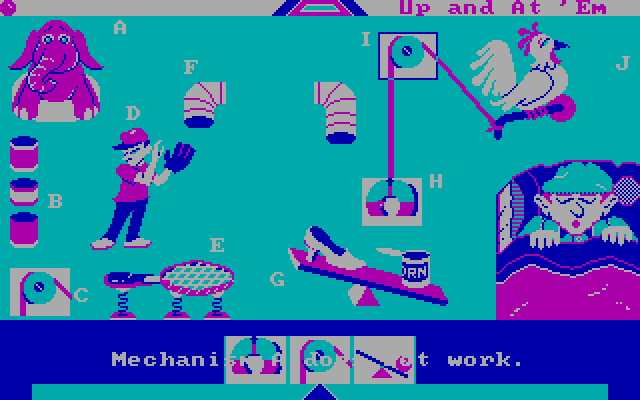
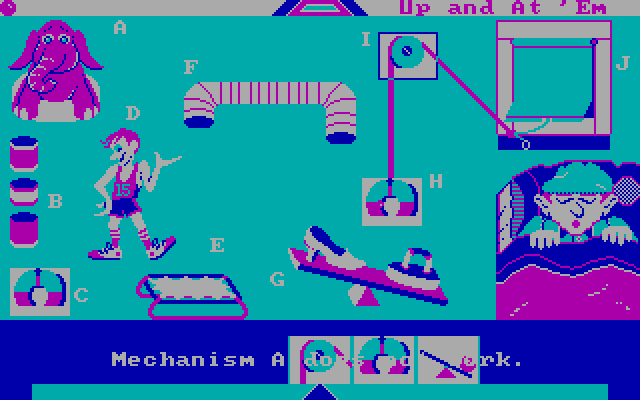
Rentetan enam ronde Mix Up: 384.000/384.000 -- dan bug KETIGA
Contraption Mix Up bukan satu layar melainkan enam kontraption berurutan
(sub++), dan hanya ronde pertama yang pernah diadu. Sekarang keenamnya.

Tiga koreksi harness untuk menjangkaunya, semuanya bukan emulator:
- hook_58c9 menghentikan emulasi tepat sesudah animasi ronde pertama; kini
  patuh CC_NOSTOP=1;
- urutan tombol OBSERVE bawaan diakhiri ESC, dan ESC MEMBATALKAN ronde --
  mode 4 dimasuki ulang, `sub` selalu kembali ke 1. Yang benar dari
  pickloop() @0x2E90: SPACE di dalam review() mengembalikan `cur | 0x8000`
  (NEGATIF, itu yang keluar dari gelung), lalu SPACE kedua dibaca clrbot();
- tanpa CC_NOWAIT animasi ronde pertama tak pernah selesai.

BUG: setmark() mengembalikan DUA daftar tanda; port memakai yang zany dan
membuang yang mekanisme. fillans.c baris 46:
    if (lvl3 == 3 && markf[i] != 0) tt[i] = b[rnd(nmech) * 0xc];
Di Mix Up slot mekanisme BERTANDA mendapat id ACAK, bukan jawaban benar.
Ronde 4 dan 6 meleset 369 dan 606 piksel.

⚠ Rantai undiannya COCOK 16/16 sejak awal -- yang salah pemakaiannya, bukan
undiannya. Alat baru CC_RNDLOG mencatat tiap rnd() berikut alamat
pemanggilnya (format yang sudah lama ditunggu pick.uji_log tapi belum pernah
ada penghasilnya); ia menunjuk tepat ke rnd(13) dari 0x14FC di fillans.

⚠ Perbaikannya butuh DUA hal sekaligus: memodelkan undian mkpal di dalam
fillans, DAN memakai direktori PENUH sebagai base di mode 4. Memodelkan yang
pertama saja justru MEMPERBURUK angkanya.
[…]

diff --git a/work/test_play.py b/work/test_play.py
@@ -170,6 +170,72 @@ def uji_mode(folder, nama, obs, mode, off, isi, isiz, ada_strip, arc, goal=GOAL)
     cek("SELURUH LAYAR", 64000 - beda, 64000)
 
 
+# Urutan tombol yang benar-benar MENYELESAIKAN satu ronde Mix Up.
+# `pickloop()` @0x2E90: ENTER memajukan slot tanpa mengubah pilihan, SPACE di
+# dalam `review()` mengembalikan `cur | 0x8000` -- nilai NEGATIF, jadi ia yang
+# keluar dari gelung -- lalu SPACE kedua dibaca `clrbot()` (case 0x20 -> jalan).
+# ⚠ ESC (0x1b) MEMBATALKAN ronde; urutan OBSERVE bawaan diakhiri ESC, dan
+# itulah sebabnya `sub` @0x3b2 dulu tak pernah lewat dari 1: tiap ronde
+# dibatalkan, mode 4 dimasuki lagi, `sub = 0` lalu `sub++`.
+# ⚠ Panah TIDAK dipakai: mengubah pilihan berarti part benar-benar DITARUH,
+# dan layar awal ronde berikutnya jadi tidak lagi keadaan awal.
+TOMBOL_RONDE = ",".join((["0d"] * 3 + ["20", "20"]) * 10)
+
+
+def uji_mixup_rentetan(folder, arc):
+    """KEENAM ronde Contraption Mix Up, bukan hanya yang pertama.
+
+    Mode 4 adalah RENTETAN: `main_.c` case 4 memasang `sub = 0; goal = 6;`
+    lalu `sub++` tiap putaran. Lima kontraption sesudah yang pertama dulu tak
+    pernah bisa diadu -- `hook_58c9` menghentikan emulasi tepat sesudah
+    animasi ronde pertama. `CC_NOSTOP=1` kini membiarkannya jalan terus.
+
+    Dua lari (emulatornya deterministik): satu membaca keadaan RNG di tiap
+    `loadcon()`, satu menangkap layarnya. Dipasangkan lewat `sub` yang
+    dicatat KEDUANYA -- bukan lewat urutan, karena `drawpal()` bisa terpanggil
+    lebih dari sekali per ronde.
+    """
+    g, m, mi, an, cs = arc
+    env = dict(CC_NOSTOP="1", CC_NOWAIT="1", CC_OBSKEYS=TOMBOL_RONDE)
+    seqS = _emu(folder, "mixup_rentetan", "mixup", 4, dict(
+        env, CC_VRAMSEQ="3c4e=%s:8" % os.path.join(folder, "mixup_rentetan"),
+        CC_VSWORD="3ac,51c,738,718,7ee,3b2,730,732",
+        CC_VSMEM="2ea:20", CC_VSPTR="73a:480"))
+    seqL = _emu(folder, "mixup_ronde_rng", "mixup", 4, dict(
+        env, CC_VRAMSEQ="5035=%s:12" % os.path.join(folder, "mixup_ronde_rng"),
+        CC_VSWORD="71a,3b2,1e2e,1e30,718"))
+    S = json.load(open(os.path.join(seqS, "globals.json")))
+    L = json.load(open(os.path.join(seqL, "globals.json")))
+    uniq = []
+    for r in S:                       # drawpal bisa >1x per ronde: ambil yang pertama
+        if not uniq or uniq[-1]["w3b2"] != r["w3b2"]:
+            uniq.append(r)
+    per_off = {r["off"]: r for r in m.recs}
+    for i, r0 in enumerate(uniq[:6]):
+        lc = L[i + 1]
+        sub = r0["w3b2"]
+        if lc["w3b2"] != sub:         # penjajaran DIPERIKSA, bukan diasumsikan
+            gagal.append("ronde %d: sub loadcon %d != layar %d"
+                         % (i, lc["w3b2"], sub))
+            continue
+        skor = r0["w730"] | (r0["w732"] << 16)
+        ref = muat(os.path.join(seqS, "f%04d.png" % r0["frame"]))
+        var, _p, fb, _pil = adegan.susun_lengkap(
+            sub, g, m, mi, an, cs, seed=lc["w71a"], mode=4, sub=sub,
+            isi=True, isi_zany=True, nbola=r0["w718"],
+            lastgoal=lc["w1e2e"], lastvar=lc["w1e30"], lvl=1)
+        k = rend.KanvasFB(fb)
+        idtab = bytes.fromhex(r0["mem2"])
+        base = (base_gim(bytes.fromhex(r0["mem"]), m)
+                if r0["w738"] == 1 else m.recs)
+        palet.drawpal(k, r0["w51c"], lambda j: (m, base[idtab[j]]), r0["w3ac"])
+        hud.timedrw(k, r0["w7ee"], 4, r0["w718"], sub)
+        hud.judul_atau_skor(k, 4, sub, skor)
+        beda = sum(1 for y in range(200) for x in range(320)
+                   if fb[y][x] != ref[y][x])
+        cek("Mix Up ronde sub=%d (skor %d)" % (sub, skor), 64000 - beda, 64000)
+
+
 def uji_interaktif(folder, arc):
     """Jalur PEMAIN SUNGGUHAN: main.Game + key(), bukan hanya modul inti.
 
@@ -227,9 +293,11 @@ def main(folder):
     for nama, obs, mode, off, isi, isiz, strip, goals in KASUS:
         for goal in goals:
             uji_mode(folder, nama, obs, mode, off, isi, isiz, strip, arc, goal)
+    print("  Contraption Mix Up: RENTETAN enam ronde")
+    uji_mixup_rentetan(folder, arc)
     print("  Fill in Mechanisms lewat JALUR PEMAIN")
     uji_interaktif(folder, arc)
-    print("\n%s" % ("LAYAR BERMAIN IDENTIK DENGAN GAME ASLI (6 goal x 2 mode + Mix Up)"
+    print("\n%s" % ("LAYAR BERMAIN IDENTIK DENGAN GAME ASLI (6 goal x 2 mode + 6 ronde Mix Up)"
                     if not gagal else "GAGAL: %s" % ", ".join(gagal)))
     return 1 if gagal else 0
 

diff --git a/work/emu.py b/work/emu.py
@@ -594,6 +594,41 @@ def hook_5035(uc, addr, size, user):
 # secara deterministik (bukan acak). VARIANT<0 = biarkan acak (perilaku asli).
 VARIANT = int(os.environ.get("VARIANT", "-1"))
 VTAG = "" if VARIANT < 0 else "_v%d" % VARIANT   # suffix output per-varian
+# CC_RNDLOG=<berkas> -- catat SETIAP panggilan `rnd()` @0x5A5B:
+#   "<seed sebelum heks> <n> <hasil> <alamat balik heks>"
+#
+# Format tiga kolom pertamanya persis yang ditunggu `pick.uji_log()`. Ada
+# karena "rantai RNG-nya benar" adalah klaim yang selama ini hanya bisa diuji
+# LEWAT PIKSEL: kalau satu slot meleset, tidak ada cara melihat undian KE
+# BERAPA yang berbeda. Ini melihatnya.
+#
+# Hasilnya dihitung ulang di sini, bukan dibaca dari AX, karena hook menyala
+# saat MASUK: `snd1.asm` melakukan seed = seed*0x3E85 + 0x3619 lalu
+# hasil = kata TINGGI dari n * seed_baru. `n` ada di [BX+2].
+_RNDLOG = os.environ.get("CC_RNDLOG")
+_rndlog_f = [None]
+
+
+def hook_rndlog(uc, addr, size, user):
+    if not _RNDLOG:
+        return
+    if _rndlog_f[0] is None:
+        _rndlog_f[0] = open(_RNDLOG, "w")
+    seed = struct.unpack_from(
+        "<H", bytes(uc.mem_read(DGROUP * 16 + 0x71a, 2)), 0)[0]
+    # ⚠ `n` dibaca lewat SP, BUKAN BX: `rnd:` @0x5A5B dibuka `MOV BX, SP`,
+    # jadi saat hook menyala BX belum berisi apa-apa. [SP] = alamat balik,
+    # [SP+2] = argumen.
+    _ss = uc.reg_read(UC_X86_REG_SS); _sp = uc.reg_read(UC_X86_REG_SP)
+    n = struct.unpack_from("<H", bytes(uc.mem_read(_ss * 16 + _sp + 2, 2)), 0)[0]
+    baru = (seed * 0x3E85 + 0x3619) & 0xFFFF
+    hasil = (n * baru) >> 16
+    ssg = uc.reg_read(UC_X86_REG_SS); spx = uc.reg_read(UC_X86_REG_SP)
+    reta = struct.unpack_from("<H", bytes(uc.mem_read(ssg * 16 + spx, 2)), 0)[0]
+    _rndlog_f[0].write("%04x %d %d %04x" % (seed, n, hasil, reta) + chr(10))
+    _rndlog_f[0].flush()
+
+
 def hook_5a5b(uc, addr, size, user):
     if VARIANT < 0:
         return
@@ -1176,7 +1211,14 @@ def hook_18db_entry(uc, addr, size, user):  # mulai capture pada 18db pertama
 
 def hook_58c9(uc, addr, size, user):        # dipanggil tepat setelah 18db play -> selesai
     if started[0]:
-        # dump & stop
+        # ⚠ Berhenti di sini berarti HANYA RONDE PERTAMA yang pernah terlihat.
+        # Itu tidak terasa di mode 2/3 (satu kontraption per pilihan goal),
+        # tapi Contraption Mix Up adalah RENTETAN enam ronde -- `main_.c`
+        # case 4 memasang `sub = 0; goal = 6;` lalu `sub++` tiap putaran.
+        # Dengan berhenti di ronde pertama, lima kontraption sisanya tak
+        # pernah bisa diadu. `CC_NOSTOP=1` membiarkannya jalan terus.
+        if NOSTOP:
+            return
         _dump_and_stop()
 
 def _dump_and_stop():
@@ -1369,7 +1411,8 @@ def hook_seed(uc, addr, size, user):
 
 _seed_done = [False]
 
-hooks = [(0x5035, hook_seed), (0x5035, hook_5035), (0x5a5b, hook_5a5b), (0x1791, hook_input), (0x1814, hook_input),
+hooks = [(0x5035, hook_seed), (0x5035, hook_5035),
+         (0x5a5b, hook_rndlog), (0x5a5b, hook_5a5b), (0x1791, hook_input), (0x1814, hook_input),
          (0x672f, hook_672f), (0x26ae, hook_ball),
          (0x1b13, hook_mechmatch), (0x1bcd, hook_zanymatch),
          (0x341a, hook_menu_mode), (0x32bb, hook_menu_level),

diff --git a/port/cc/core/pick.py b/port/cc/core/pick.py
@@ -179,8 +179,26 @@ def mkpal(recs):
     return out
 
 
-def fillans(recs, jenis):
-    """`fillans()` @0x4b??: mekanisme TIDAK diundi. -> indeks record per slot.
+def fillans(recs, jenis, rng=None, mark=None, lvl3=1, base=None):
+    """`fillans()` @0x149D. -> indeks record per slot.
+
+    ⭐ "Mekanisme TIDAK diundi" hanya benar di mode 1/2/3. Di Contraption Mix
+    Up slot mekanisme yang BERTANDA justru mendapat id ACAK:
+
+        if (lvl3 == 3 && markf[i] != 0)  tt[i] = b[rnd(nmech) * 0xc];
+        else                             tt[i] = tq[i * 3 + 2];
+
+    dan `b` di situ `base` -- direktori record -- diindeks dgn `rnd(nmech)`,
+    yaitu cacah PALET, bukan cacah record. Ditiru apa adanya.
+
+    `setmark()` memang mengembalikan DUA daftar tanda; port dulu memakai yang
+    zany saja dan MEMBUANG yang mekanisme, jadi cabang ini tak pernah ada.
+    Terukur di Contraption Mix Up ronde 4 dan 6: satu petak slot meleset
+    (369 dan 606 piksel) sementara seluruh rantai undian justru COCOK 16/16 --
+    tanda bahwa yang salah pemakaiannya, bukan undiannya.
+
+    `mkpal()` dipanggil DI DALAM `fillans` dan ikut memakai RNG, jadi undian
+    `rnd(nmech)` di atas hanya benar kalau kocokan itu dimodelkan lebih dulu.
 
         for (j = 0; j < nmech; j++)
             if (b[tr[j] * 0xc] == tt[i]) { ans[i] = tr[j]; break; }
@@ -191,12 +209,22 @@ def fillans(recs, jenis):
     jenis 150 tidak akan pernah ketemu. Salah satu tempat di mana memakai
     ulang "fungsi yang mirip" akan diam-diam meleset.
     """
-    tr = mkpal(recs)
+    b = recs if base is None else base
+    if rng is None:
+        tr = mkpal(recs)                       # jalur lama, tanpa RNG
+        npal = len(tr)
+    else:
+        npal = len(palet_mekanisme(b, jenis, lvl3, rng))
+        tr = mkpal(recs)
     hasil = []
-    for t in jenis:
+    for i, t in enumerate(jenis):
+        cari = t
+        if (lvl3 == 3 and rng is not None and mark
+                and i < len(mark) and mark[i] and npal):
+            cari = b[rng.rnd(npal)]["id"]
         ketemu = None
         for j in tr:
-            if recs[j]["id"] == t:
+            if recs[j]["id"] == cari:
                 ketemu = j
                 break
         hasil.append(ketemu)

diff --git a/port/cc/core/adegan.py b/port/cc/core/adegan.py
@@ -305,10 +305,11 @@ def susun_lengkap(goal, graph, mechs, misc, animate, kontrap, seed=0, mode=0,
     # rantai RNG-nya; yang membuktikannya mode 4, di mana semuanya tampak.
     n_slot = len(var["zany"]) + len(var["mech"])
     mark_zany = None
+    mark_mech = None
     if mode == 3:
         _mk, mark_zany, _c, _z = pick.setzany(r, n_slot, var["state"])
     elif mode == 4:
-        _mk, mark_zany, _c = pick.setmark(r, n_slot, var["state"], lvl)
+        mark_mech, mark_zany, _c = pick.setmark(r, n_slot, var["state"], lvl)
     # `lvl2`: 2 di Mix Up, dan di mode isian 1 (Apprentice) / 2 (Master).
     lvl2 = 2 if mode == 4 else (1 if lvl == 1 else 2)
 
@@ -316,8 +317,16 @@ def susun_lengkap(goal, graph, mechs, misc, animate, kontrap, seed=0, mode=0,
     tz = pick.tabel(graph, jz)
     selz = pick.pickpart(r, tz, jz, sub=goal, mark=mark_zany, lvl2=lvl2)
     jm = [t for (y, x, t) in var["mech"]]
-    tm = pick.tabel(mechs, jm)
-    selm = pick.fillans(tm, jm)
+    # ⚠ `loadarc(mechfh, base, lvl3 == 1 ? 0 : 1, ...)`: di mode isian `base`
+    # adalah direktori yang DISARING + DIPADATKAN, di Contraption Mix Up
+    # direktori PENUH. Bedanya baru terasa sesudah slot mekanisme BERTANDA
+    # dimodelkan: id acaknya diambil dari `base`, dan kalau `base` tersaring
+    # id itu sering tidak ada di sana sama sekali.
+    tm = mechs.recs if mode == 4 else pick.tabel(mechs, jm)
+    # ⭐ Di Mix Up slot mekanisme BERTANDA mendapat id ACAK (fillans.c baris
+    # 46). Daftar tanda mekanisme dulu dibuang di sini -- lihat pick.fillans().
+    selm = (pick.fillans(tm, jm, rng=r, mark=mark_mech, lvl3=3, base=tm)
+            if mode == 4 else pick.fillans(tm, jm))
 
     # `sub` = nomor goal. Ia menentukan strip cyan di dasar layar:
     #     if (sub == 1 && mode != 0 && mode != 1)

diff --git a/CLAUDE.md b/CLAUDE.md
@@ -509,6 +509,43 @@ Ketiganya bukan "bug yang diketahui", melainkan bagian yang statusnya
    yang DIPOTONG 16 nada — alat ukur yang membatasi temuannya sendiri.
    Daftar frekuensi penuh kini ditulis ke `pit_hz.json`.
 
+### Celah keempat: RENTETAN enam ronde Contraption Mix Up (2026-08-02)
+
+Mode 4 bukan satu layar melainkan enam kontraption berurutan (`sub++`), dan
+hanya ronde PERTAMA yang pernah diadu. Menjangkau sisanya butuh tiga koreksi
+harness, semuanya bukan emulator:
+
+- `hook_58c9` menghentikan emulasi tepat sesudah animasi ronde pertama —
+  kini patuh `CC_NOSTOP=1`;
+- urutan tombol OBSERVE bawaan diakhiri **ESC**, dan ESC MEMBATALKAN ronde,
+  jadi mode 4 dimasuki ulang dan `sub` selalu kembali ke 1. Yang benar:
+  `pickloop()` @0x2E90 — SPACE di dalam `review()` mengembalikan
+  `cur | 0x8000` (nilai NEGATIF, itu yang keluar dari gelung), lalu SPACE
+  KEDUA dibaca `clrbot()` (case 0x20 → jalan). Panah tidak dipakai: mengubah
+  pilihan berarti part benar-benar DITARUH;
+- tanpa `CC_NOWAIT` animasi ronde pertama tak pernah selesai.
+
+⭐ **BUG KETIGA.** `setmark()` mengembalikan DUA daftar tanda; port memakai
+yang zany dan MEMBUANG yang mekanisme. Padahal `fillans.c` baris 46:
+`if (lvl3 == 3 && markf[i] != 0) tt[i] = b[rnd(nmech) * 0xc];` — di Mix Up
+slot mekanisme bertanda mendapat id ACAK. Ronde 4 dan 6 meleset 369 dan 606
+piksel.
+
+⚠ Rantai undiannya justru COCOK 16/16 sejak awal — yang salah PEMAKAIANNYA,
+bukan undiannya. Alat yang membuktikannya baru: **`CC_RNDLOG`**, pencatat
+tiap panggilan `rnd()` berikut alamat pemanggilnya (formatnya persis yang
+sudah lama ditunggu `pick.uji_log()`, tapi belum pernah ada penghasilnya).
+Ia menunjuk tepat ke `rnd(13)` dari 0x14FC di dalam `fillans`.
+
+⚠ Perbaikannya perlu DUA hal sekaligus: memodelkan undian `mkpal` di dalam
+`fillans`, DAN memakai direktori PENUH sebagai `base` di mode 4
+(`loadarc(..., lvl3 == 1 ? 0 : 1, ...)`) — id acaknya diambil dari `base`,
+dan di tabel tersaring id itu sering tidak ada. Memodelkan hanya yang pertama
+justru MEMPERBURUK angkanya; itu petunjuk bagus bahwa penjelasannya belum
+lengkap, dan alasan kenapa "angka membaik" bukan bukti.
+
+→ enam ronde **384.000/384.000 piksel**; `test_play.py` kini 20 kasus.
+
 ## Jebakan yang sudah pernah menggigit (jangan ulangi)
 
 - **Sprite di-render OPAQUE, bukan colorkey cyan.** Blitter asli `672f` menulis semua piksel;
